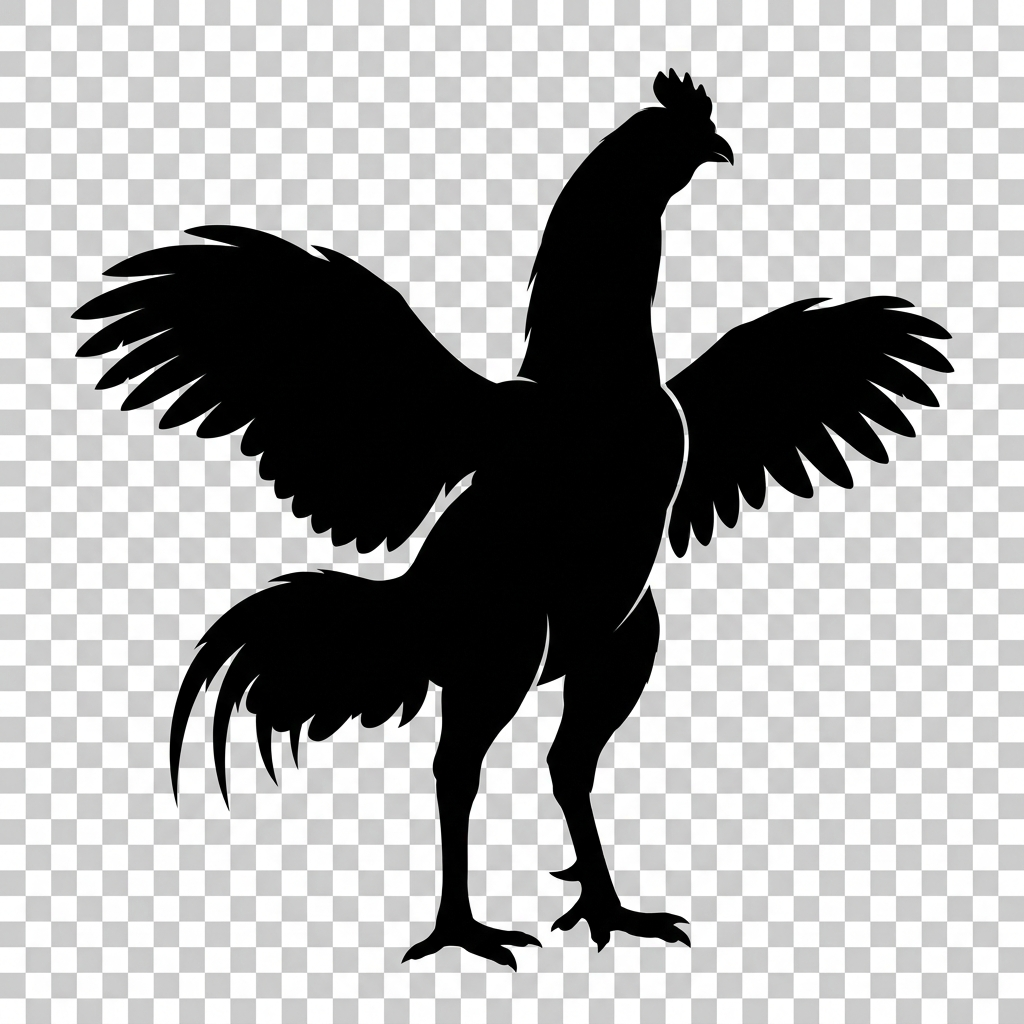
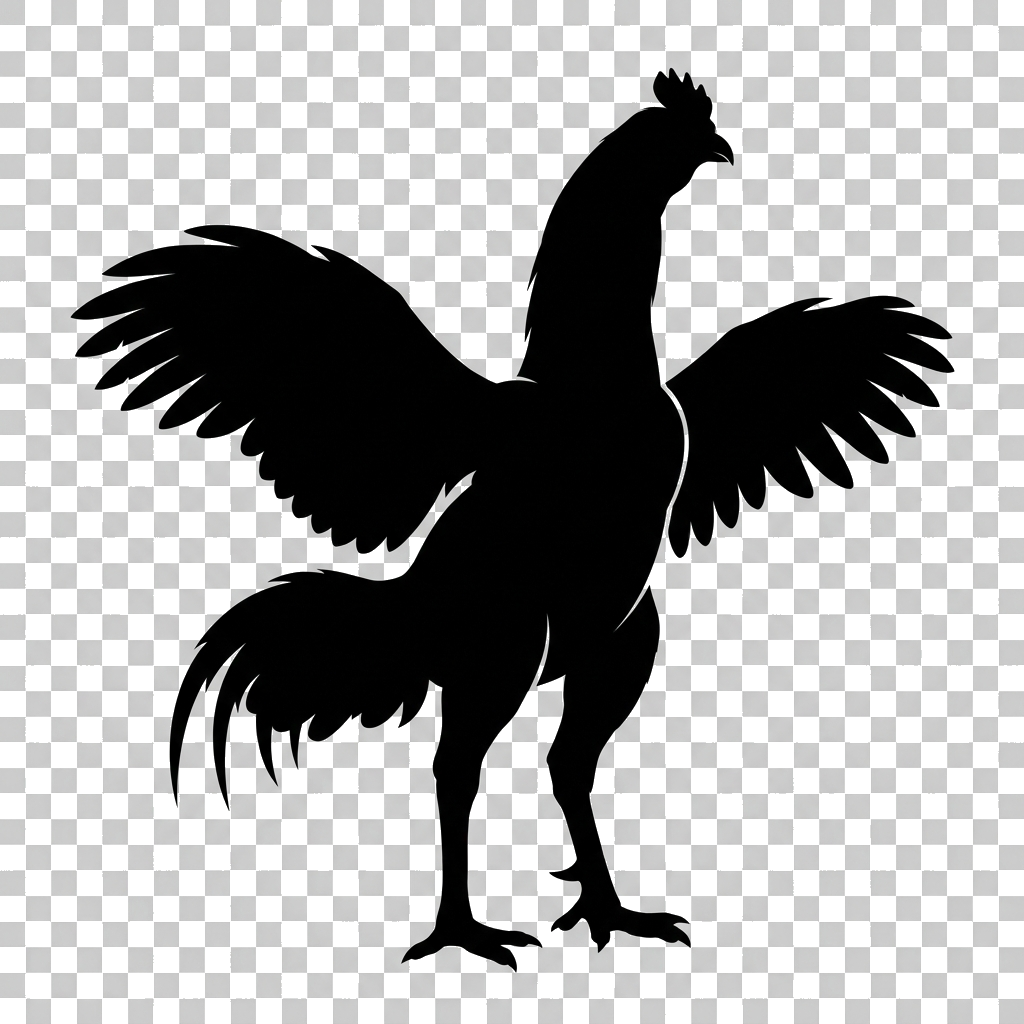
fccvcvbdfb

diff --git a/src/pages/Login.tsx b/src/pages/Login.tsx
@@ -1,5 +1,5 @@
 import { useState, useEffect } from 'react';
-import { User, Activity, LogIn, AlertTriangle } from 'lucide-react';
+import { Activity, LogIn } from 'lucide-react';
 import { useAuth } from '../lib/AuthContext';
 import gamecockSilhouette from '../assets/gamefowl_silhouette.png';
 
@@ -150,8 +150,8 @@ export function Login() {
         @keyframes fadeInUp {
           from {
             opacity: 0;
-            transform: translateY(25px);
-            filter: blur(6px);
+            transform: translateY(20px);
+            filter: blur(5px);
           }
           to {
             opacity: 1;
@@ -162,16 +162,16 @@ export function Login() {
       `}</style>
 
       {/* Background glow overlay */}
-      <div className="absolute top-1/4 left-1/2 -translate-x-1/2 -translate-y-1/2 w-96 h-96 bg-theme-primary/10 rounded-full blur-[120px] pointer-events-none" />
+      <div className="absolute top-1/3 left-1/2 -translate-x-1/2 -translate-y-1/2 w-96 h-96 bg-theme-primary/10 rounded-full blur-[120px] pointer-events-none" />
 
-      <div className="w-full max-w-md z-10 flex flex-col items-center gap-4">
+      <div className="w-full max-w-sm z-10 flex flex-col items-center gap-6">
         
         {/* Imposing Malay Gamefowl Silhouette */}
-        <div className="relative h-56 w-56 flex items-center justify-center select-none pointer-events-none mb-2">
+        <div className="relative h-64 w-64 flex items-center justify-center select-none pointer-events-none mb-4">
           <img 
             src={gamecockSilhouette} 
             alt="Malay Gamefowl Silhouette" 
-            className={`h-48 object-contain select-none pointer-events-none transition-all ${
+            className={`h-56 object-contain select-none pointer-events-none transition-all ${
               animationPhase === 'walking' 
                 ? 'gamecock-walk' 
                 : animationPhase === 'flapping' 
@@ -182,71 +182,46 @@ export function Login() {
           />
         </div>
 
-        {/* Form elements with conditional fade-in */}
+        {/* Form elements (Galo e campo do CPF apenas) */}
         <div className={`w-full space-y-6 transition-all ${showForm ? 'form-fade-in' : 'opacity-0 pointer-events-none'}`}>
-          {/* Logo Header */}
-          <div className="text-center">
-            <div className="inline-flex items-center gap-3 justify-center mb-1 animate-fade-in">
-              <div className="w-10 h-10 rounded-xl bg-gradient-to-br from-theme-primary to-orange-600 flex items-center justify-center font-black text-black text-xl shadow-lg shadow-orange-500/10">M</div>
-              <span className="font-bold text-2xl tracking-tight text-white">MURA<span className="text-theme-primary">MANAGER</span></span>
-            </div>
-            <p className="text-[10px] text-theme-text-muted uppercase tracking-widest font-black">Elite Poultry System</p>
-          </div>
-
-          {/* Local Test Mode Banner */}
-          {isLocalMode && (
-            <div className="p-4 bg-orange-500/10 border border-orange-500/30 rounded-2xl flex gap-3 text-orange-200 text-xs animate-pulse">
-              <AlertTriangle className="text-orange-400 shrink-0 mt-0.5" size={18} />
-              <div className="space-y-1 text-left">
-                <p className="font-bold text-orange-300">Modo de Teste Local Ativo</p>
-                <p className="leading-relaxed">O Supabase não foi configurado. Digite <strong>qualquer CPF de 11 dígitos</strong> para entrar e testar. O CPF <strong>14477751630</strong> ativará as funções de Administrador.</p>
-              </div>
+          {errorMsg && (
+            <div className="p-3 bg-red-500/10 border border-red-500/20 text-red-400 text-xs rounded-xl font-bold text-center">
+              {errorMsg}
             </div>
           )}
 
-          {/* Login Form Card */}
-          <div className="premium-card p-6 border border-theme-border/50 bg-theme-surface/50 backdrop-blur-md space-y-6">
-            <div className="text-center space-y-1">
-              <h2 className="text-xl font-black text-white">Acessar Criatório</h2>
-              <p className="text-xs text-theme-text-muted font-medium">Insira o seu CPF cadastrado para acessar o sistema</p>
+          <form onSubmit={handleSubmit} className="space-y-6">
+            <div className="space-y-1 text-center">
+              <input
+                type="text"
+                required
+                value={cpfInput}
+                onChange={handleCpfChange}
+                className="w-full bg-transparent border-b-2 border-theme-border/60 focus:border-theme-primary outline-none transition-colors tracking-widest text-center font-bold text-2xl py-3 text-white placeholder-theme-text-muted/30"
+                placeholder="000.000.000-00"
+              />
             </div>
 
-            {errorMsg && (
-              <div className="p-3 bg-red-500/10 border border-red-500/20 text-red-400 text-xs rounded-xl font-bold text-center">
-                {errorMsg}
-              </div>
-            )}
+            <button
+              type="submit"
+              disabled={loading}
+              className="w-full btn-primary py-3 rounded-xl flex items-center justify-center gap-2 font-black text-base shadow-lg transition-all active:scale-95 disabled:opacity-50 disabled:cursor-not-allowed"
+            >
+              {loading ? (
+                <Activity size={18} className="animate-spin text-black" />
+              ) : (
+                <>
+                  <LogIn size={18} /> Entrar no Criatório
+                </>
+              )}
+            </button>
+          </form>
 
-            <form onSubmit={handleSubmit} className="space-y-4">
-              <div className="space-y-1">
-                <label className="text-xs font-bold text-theme-text-muted uppercase tracking-wider flex items-center gap-2">
-                  <User size={14} className="text-theme-primary" /> CPF do Cliente
-                </label>
-                <input
-                  type="text"
-                  required
-                  value={cpfInput}
-                  onChange={handleCpfChange}
-                  className="w-full bg-theme-base border border-theme-border rounded-xl p-3 text-sm text-white focus:border-theme-primary outline-none transition-colors tracking-widest text-center font-bold text-lg"
-                  placeholder="000.000.000-00"
-                />
-              </div>
-
-              <button
-                type="submit"
-                disabled={loading}
-                className="w-full btn-primary py-3 rounded-xl flex items-center justify-center gap-2 font-black text-base shadow-lg transition-all active:scale-95 disabled:opacity-50 disabled:cursor-not-allowed mt-4"
-              >
-                {loading ? (
-                  <Activity size={18} className="animate-spin text-black" />
-                ) : (
-                  <>
-                    <LogIn size={18} /> Entrar no Sistema
-                  </>
-                )}
-              </button>
-            </form>
-          </div>
+          {isLocalMode && (
+            <div className="p-3 bg-orange-500/5 border border-orange-500/10 rounded-xl text-orange-300/60 text-[10px] text-center mt-4">
+              Modo Local: Digite qualquer CPF de 11 dígitos. Admin: 14477751630.
+            </div>
+          )}
         </div>
       </div>
     </div>
